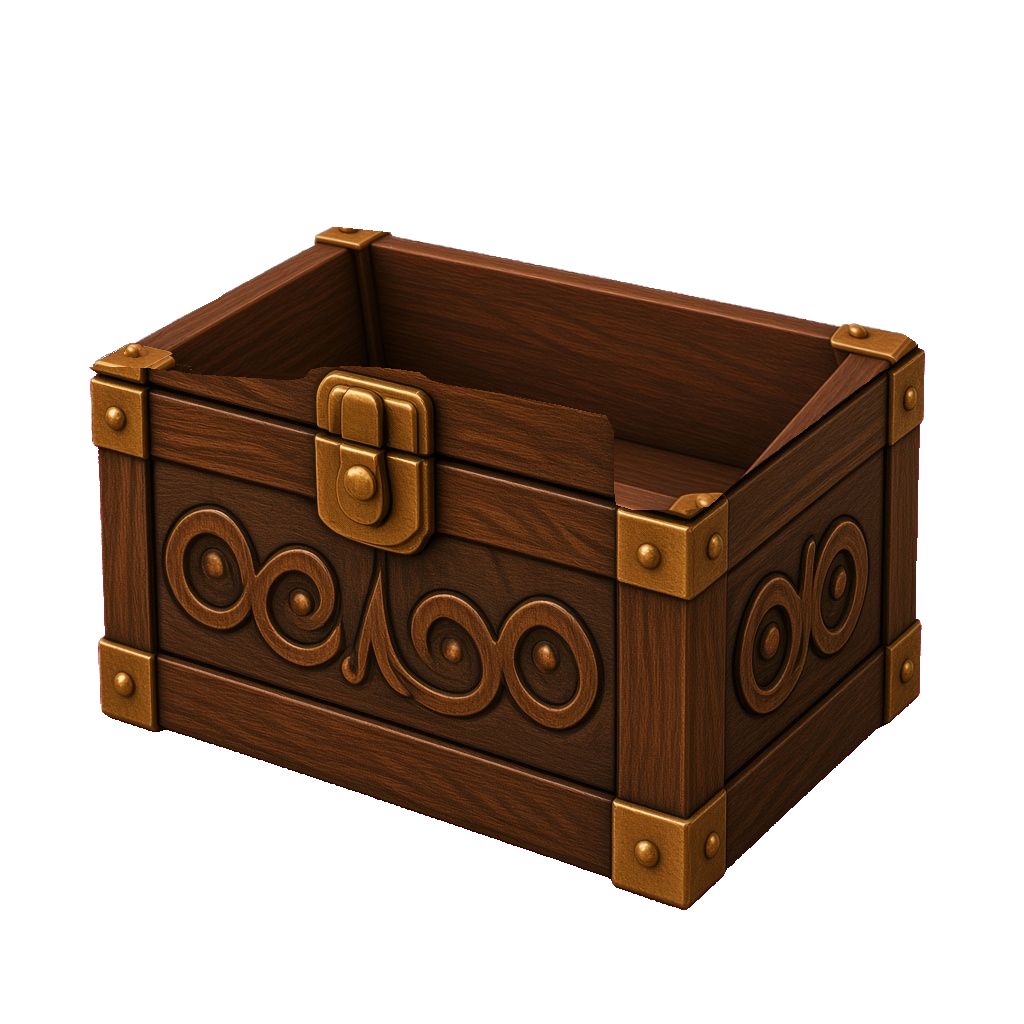
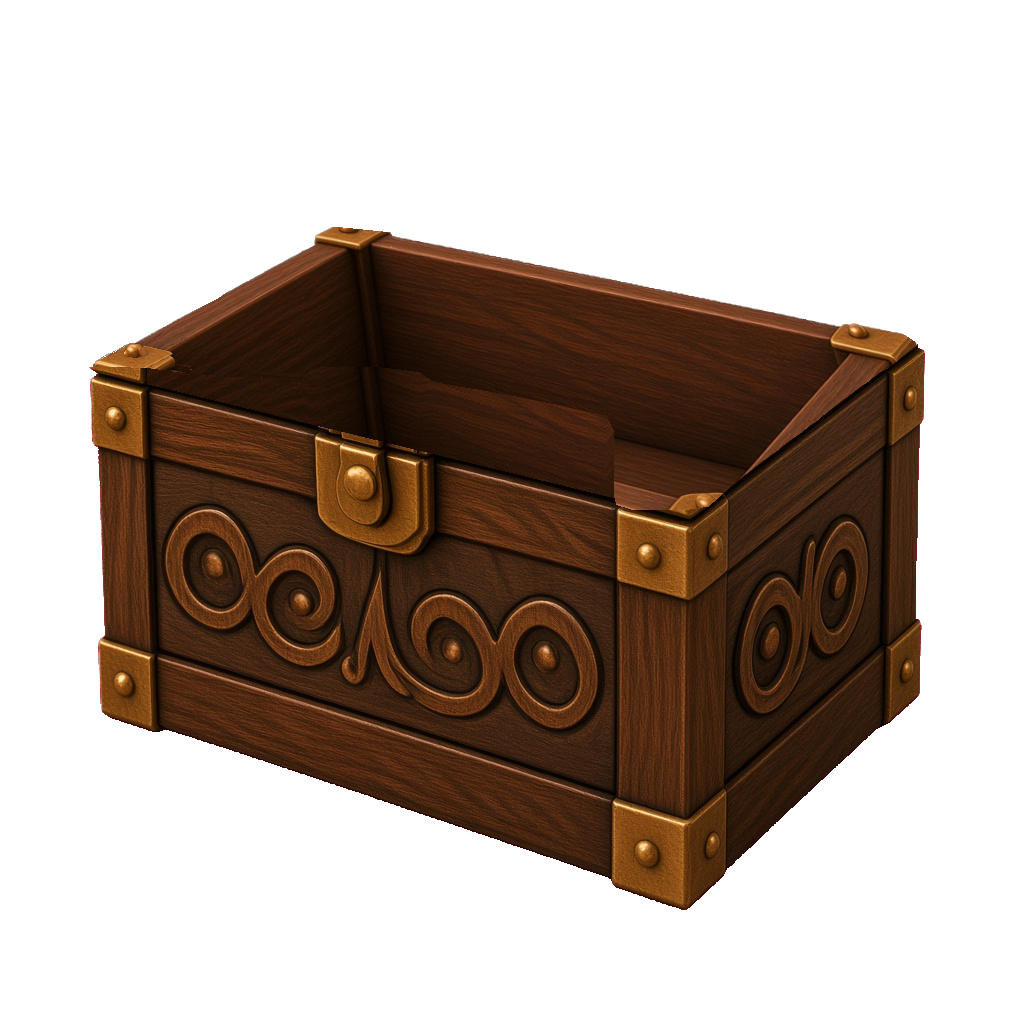
V1.1: исправлена крышка сундука

Changed region(s): [[0.1562, 0.3438, 0.5938, 0.5]]

diff --git a/index.html b/index.html
@@ -116,11 +116,11 @@ p{font-size:clamp(17px,2vw,25px);line-height:1.35;margin:8px 0}
   <img class="ornament a hidden" alt=""><img class="ornament b hidden" alt=""><img class="ornament c hidden" alt=""><img class="ornament d hidden" alt="">
   <div class="content" id="content"></div>
   <div class="fx" id="fx"></div>
-  <div class="version" id="version">V1</div>
+  <div class="version" id="version">V1.1</div>
  </main>
 </div>
 <script>
-const FALLBACK_DATA = {"game":{"title":"ҚАЗАҚТЫҢ ҰЛТТЫҚ БҰЙЫМДАРЫ","subtitle":"Танымдық ойын","language":"kk","age":"5+","description":"Қазақ халқының ұлттық бұйымдарымен танысуға арналған ойын.","mode":"combined","version":"V1"},"ui":{"start":"БАСТАУ","yes":"ӘРИНЕ!","next":"КЕЛЕСІ","back":"АРТҚА","beginQuiz":"ОЙЫНДЫ БАСТАУ","tryAgain":"ҚАЙТА КӨРУ","playAgain":"ҚАЙТА ОЙНАУ","finish":"АЯҚТАУ","correct":"ЖАРАЙСЫҢ!","incorrect":"Тағы бір рет байқап көр!","mute":"Дыбыс","teacherMode":"Тәрбиеші режимі","childMode":"Бала режимі","teacherHint":"Балалар ауызша жауап береді. Дайын болғанда «Келесі» батырмасын басыңыз.","childHint":"Дұрыс суретті таңда.","progress":"Зат","music":"Музыка","replay":"Қайталау","toQuiz":"ОЙЫНҒА ӨТУ","nextTask":"КЕЛЕСІ ТАПСЫРМА","results":"ҚОРЫТЫНДЫ","task":"ТАПСЫРМА","menuPill":"ТАНЫМДЫҚ ОЙЫН","introPill":"ҚОШ КЕЛДІҢДЕР!","quizPill":"БІЛІМІМІЗДІ ТЕКСЕРЕЙІК!","finalPill":"ОЙЫН АЯҚТАЛДЫ","quizIntroTitle":"ЖАРАЙСЫҢДАР!","quizIntroText":"Енді ұлттық бұйымдарды қаншалықты жақсы есте сақтағанымызды тексерейік!","openChest":"Сандықты ашу үшін бас!"},"intro":{"text":"Балалар, қараңдаршы! Бізге бір әдемі сиқырлы сандық келіпті. Ішінде не бар екенін бірге көрейік пе?","button":"ӘРИНЕ!"},"items":[{"id":"urshyk","name":"ҰРШЫҚ","description":"Ұршық – жүн иіруге арналған құрал.","question":"Балалар, мынау не?","image":"images/objects/уршык.png","short":"Жүн иіруге арналған құрал."},{"id":"zhun","name":"ЖҮН","description":"Жүн – қойдың жүнінен алынады.","question":"Жүн неден алынады?","image":"images/objects/жун.png","short":"Қойдың жүнінен алынады.","decor":"yarn"},{"id":"kiiz","name":"КИІЗ","description":"Киіз – жүннен жасалады.","question":"Киіз неден жасалады?","image":"images/objects/киіз.png","short":"Жүннен жасалады.","decor":"rolledFelt"},{"id":"kiilem","name":"КІЛЕМ","description":"Кілем – үйді сәндейтін әдемі бұйым.","question":"Кілем қандай бұйым?","image":"images/objects/кілем.png","short":"Үйді сәндейтін әдемі бұйым.","decor":"rolledCarpet"},{"id":"kamshy","name":"ҚАМШЫ","description":"Қамшы – қазақ халқының ұлттық бұйымы.","question":"Мына бұйым қалай аталады?","image":"images/objects/камшы.png","short":"Қазақ халқының ұлттық бұйымы."},{"id":"oyu","name":"ОЮ-ӨРНЕК","description":"Ою-өрнек – бұйымдарды әшекейлейді.","question":"Ою-өрнек не үшін қажет?","image":"images/objects/ою_орнек.png","short":"Бұйымдарды әшекейлейді."}],"quiz":[{"id":"find-object","title":"ДҰРЫСЫН ТАП!","instruction":"Қайсысы кілем?","question":"Қайсысы кілем?","answer":"kiilem","choices":[{"id":"zhun","label":"ЖҮН","image":"images/objects/жун.png"},{"id":"kiilem","label":"КІЛЕМ","image":"images/objects/кілем.png"},{"id":"kamshy","label":"ҚАМШЫ","image":"images/objects/камшы.png"}]},{"id":"purpose","title":"НЕ ҮШІН ҚАЖЕТ?","instruction":"Жүнді иіруге не қажет?","question":"Жүнді иіруге не қажет?","answer":"urshyk","choices":[{"id":"urshyk","label":"ҰРШЫҚ","image":"images/objects/уршык.png"},{"id":"kiiz","label":"КИІЗ","image":"images/objects/киіз.png"},{"id":"oyu","label":"ОЮ-ӨРНЕК","image":"images/objects/ою_орнек.png"}]},{"id":"odd-one","title":"АРТЫҚ ЗАТТЫ ТАП!","instruction":"Қай зат ұлттық бұйымдарға жатпайды?","question":"Қай зат ұлттық бұйымдарға жатпайды?","answer":"extra","choices":[{"id":"kiilem","label":"КІЛЕМ","image":"images/objects/кілем.png"},{"id":"extra","label":"ОЙЫНШЫҚ КӨЛІК","image":"images/objects/лишний_предмет.png"},{"id":"kamshy","label":"ҚАМШЫ","image":"images/objects/камшы.png"}]}],"final":{"title":"ЖАРАЙСЫҢДАР, БАЛАЛАР!","text":"Бүгін біз қазақ халқының ұлттық бұйымдарымен таныстық. Сендер өте ақылдысыңдар!","button":"ҚАЙТА ОЙНАУ"},"assets":{"background":"images/backgrounds/фон_юрта.jpg","closedChest":"images/objects/сундук_закрытый.png","openChest":"images/objects/сундук_открытый.png","chestGlow":"images/effects/сундук_свечение.png","stars":"images/effects/звезды.png","confetti":"images/effects/конфетти.png","cornerOrnament":"images/interface/орнамент_угловой.png","dividerOrnament":"images/interface/орнамент_разделитель.png","soundIcon":"images/interface/иконка_звук.png","musicIcon":"images/interface/иконка_музыка.png","replayIcon":"images/interface/иконка_повтор.png","yarn":"images/objects/шерсть_клубок.png","rolledFelt":"images/objects/войлок_свернутый.png","rolledCarpet":"images/objects/ковер_свернутый.png","chestBody":"images/objects/сундук_корпус.png","chestLid":"images/objects/сундук_крышка.png"}};
+const FALLBACK_DATA = {"game":{"title":"ҚАЗАҚТЫҢ ҰЛТТЫҚ БҰЙЫМДАРЫ","subtitle":"Танымдық ойын","language":"kk","age":"5+","description":"Қазақ халқының ұлттық бұйымдарымен танысуға арналған ойын.","mode":"combined","version":"V1.1"},"ui":{"start":"БАСТАУ","yes":"ӘРИНЕ!","next":"КЕЛЕСІ","back":"АРТҚА","beginQuiz":"ОЙЫНДЫ БАСТАУ","tryAgain":"ҚАЙТА КӨРУ","playAgain":"ҚАЙТА ОЙНАУ","finish":"АЯҚТАУ","correct":"ЖАРАЙСЫҢ!","incorrect":"Тағы бір рет байқап көр!","mute":"Дыбыс","teacherMode":"Тәрбиеші режимі","childMode":"Бала режимі","teacherHint":"Балалар ауызша жауап береді. Дайын болғанда «Келесі» батырмасын басыңыз.","childHint":"Дұрыс суретті таңда.","progress":"Зат","music":"Музыка","replay":"Қайталау","toQuiz":"ОЙЫНҒА ӨТУ","nextTask":"КЕЛЕСІ ТАПСЫРМА","results":"ҚОРЫТЫНДЫ","task":"ТАПСЫРМА","menuPill":"ТАНЫМДЫҚ ОЙЫН","introPill":"ҚОШ КЕЛДІҢДЕР!","quizPill":"БІЛІМІМІЗДІ ТЕКСЕРЕЙІК!","finalPill":"ОЙЫН АЯҚТАЛДЫ","quizIntroTitle":"ЖАРАЙСЫҢДАР!","quizIntroText":"Енді ұлттық бұйымдарды қаншалықты жақсы есте сақтағанымызды тексерейік!","openChest":"Сандықты ашу үшін бас!"},"intro":{"text":"Балалар, қараңдаршы! Бізге бір әдемі сиқырлы сандық келіпті. Ішінде не бар екенін бірге көрейік пе?","button":"ӘРИНЕ!"},"items":[{"id":"urshyk","name":"ҰРШЫҚ","description":"Ұршық – жүн иіруге арналған құрал.","question":"Балалар, мынау не?","image":"images/objects/уршык.png","short":"Жүн иіруге арналған құрал."},{"id":"zhun","name":"ЖҮН","description":"Жүн – қойдың жүнінен алынады.","question":"Жүн неден алынады?","image":"images/objects/жун.png","short":"Қойдың жүнінен алынады.","decor":"yarn"},{"id":"kiiz","name":"КИІЗ","description":"Киіз – жүннен жасалады.","question":"Киіз неден жасалады?","image":"images/objects/киіз.png","short":"Жүннен жасалады.","decor":"rolledFelt"},{"id":"kiilem","name":"КІЛЕМ","description":"Кілем – үйді сәндейтін әдемі бұйым.","question":"Кілем қандай бұйым?","image":"images/objects/кілем.png","short":"Үйді сәндейтін әдемі бұйым.","decor":"rolledCarpet"},{"id":"kamshy","name":"ҚАМШЫ","description":"Қамшы – қазақ халқының ұлттық бұйымы.","question":"Мына бұйым қалай аталады?","image":"images/objects/камшы.png","short":"Қазақ халқының ұлттық бұйымы."},{"id":"oyu","name":"ОЮ-ӨРНЕК","description":"Ою-өрнек – бұйымдарды әшекейлейді.","question":"Ою-өрнек не үшін қажет?","image":"images/objects/ою_орнек.png","short":"Бұйымдарды әшекейлейді."}],"quiz":[{"id":"find-object","title":"ДҰРЫСЫН ТАП!","instruction":"Қайсысы кілем?","question":"Қайсысы кілем?","answer":"kiilem","choices":[{"id":"zhun","label":"ЖҮН","image":"images/objects/жун.png"},{"id":"kiilem","label":"КІЛЕМ","image":"images/objects/кілем.png"},{"id":"kamshy","label":"ҚАМШЫ","image":"images/objects/камшы.png"}]},{"id":"purpose","title":"НЕ ҮШІН ҚАЖЕТ?","instruction":"Жүнді иіруге не қажет?","question":"Жүнді иіруге не қажет?","answer":"urshyk","choices":[{"id":"urshyk","label":"ҰРШЫҚ","image":"images/objects/уршык.png"},{"id":"kiiz","label":"КИІЗ","image":"images/objects/киіз.png"},{"id":"oyu","label":"ОЮ-ӨРНЕК","image":"images/objects/ою_орнек.png"}]},{"id":"odd-one","title":"АРТЫҚ ЗАТТЫ ТАП!","instruction":"Қай зат ұлттық бұйымдарға жатпайды?","question":"Қай зат ұлттық бұйымдарға жатпайды?","answer":"extra","choices":[{"id":"kiilem","label":"КІЛЕМ","image":"images/objects/кілем.png"},{"id":"extra","label":"ОЙЫНШЫҚ КӨЛІК","image":"images/objects/лишний_предмет.png"},{"id":"kamshy","label":"ҚАМШЫ","image":"images/objects/камшы.png"}]}],"final":{"title":"ЖАРАЙСЫҢДАР, БАЛАЛАР!","text":"Бүгін біз қазақ халқының ұлттық бұйымдарымен таныстық. Сендер өте ақылдысыңдар!","button":"ҚАЙТА ОЙНАУ"},"assets":{"background":"images/backgrounds/фон_юрта.jpg","closedChest":"images/objects/сундук_закрытый.png","openChest":"images/objects/сундук_открытый.png","chestGlow":"images/effects/сундук_свечение.png","stars":"images/effects/звезды.png","confetti":"images/effects/конфетти.png","cornerOrnament":"images/interface/орнамент_угловой.png","dividerOrnament":"images/interface/орнамент_разделитель.png","soundIcon":"images/interface/иконка_звук.png","musicIcon":"images/interface/иконка_музыка.png","replayIcon":"images/interface/иконка_повтор.png","yarn":"images/objects/шерсть_клубок.png","rolledFelt":"images/objects/войлок_свернутый.png","rolledCarpet":"images/objects/ковер_свернутый.png","chestBody":"images/objects/сундук_корпус.png","chestLid":"images/objects/сундук_крышка.png"}};
 let GAME = FALLBACK_DATA;
 const $ = s => document.querySelector(s);
 const content = $('#content'), fx = $('#fx'), gameEl = $('#game');

diff --git a/README.md b/README.md
@@ -23,3 +23,7 @@
 - Прогресс считается по длине данных (не захардкожен 6/3); все подписи — в `data.json`.
 - Адаптивно: ноутбук/проектор (16:9 и 4:3) и телефон.
 - Метка версии «V1».
+
+## V1.1
+- Исправлена крышка сундука: лицевая сторона крышки теперь цельная, непрозрачная, с ровным нижним краем (раньше нижняя часть передней планки оставалась на корпусе, и у крышки был вырез и прозрачные участки). Верхняя пластина застёжки теперь на крышке.
+- Корпус и открытый сундук обновлены под новую крышку; корпус + крышка в (0,0) по-прежнему точно дают закрытый сундук.
